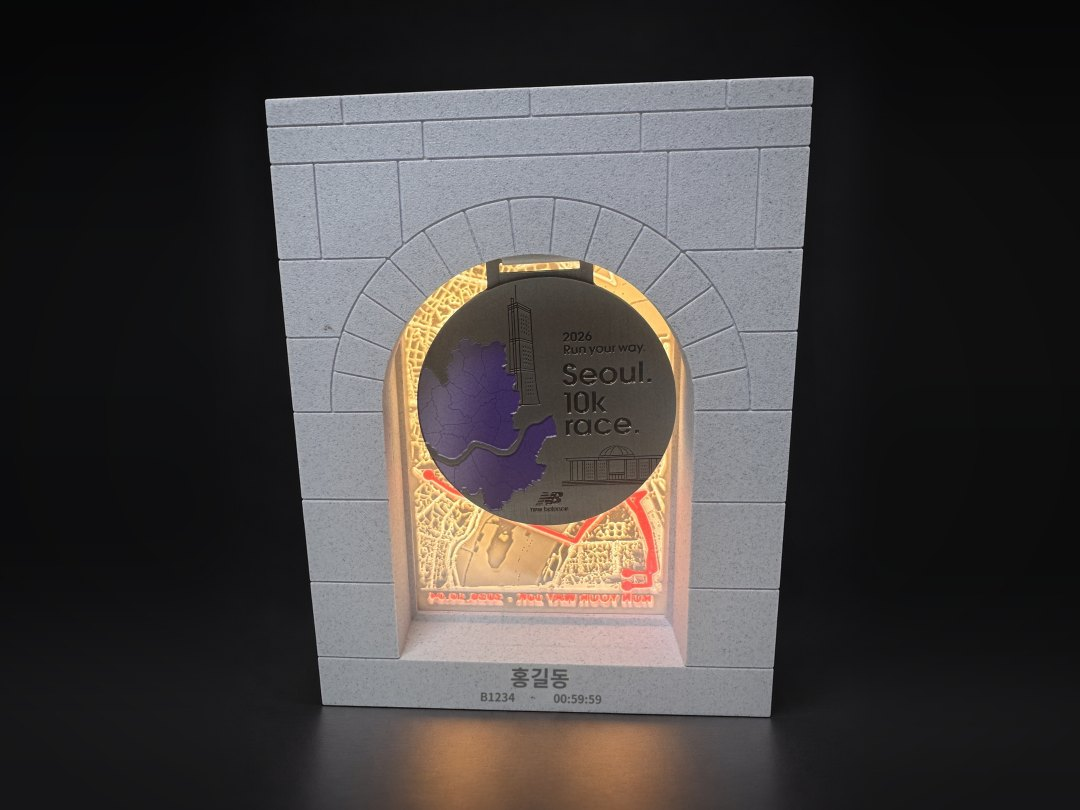
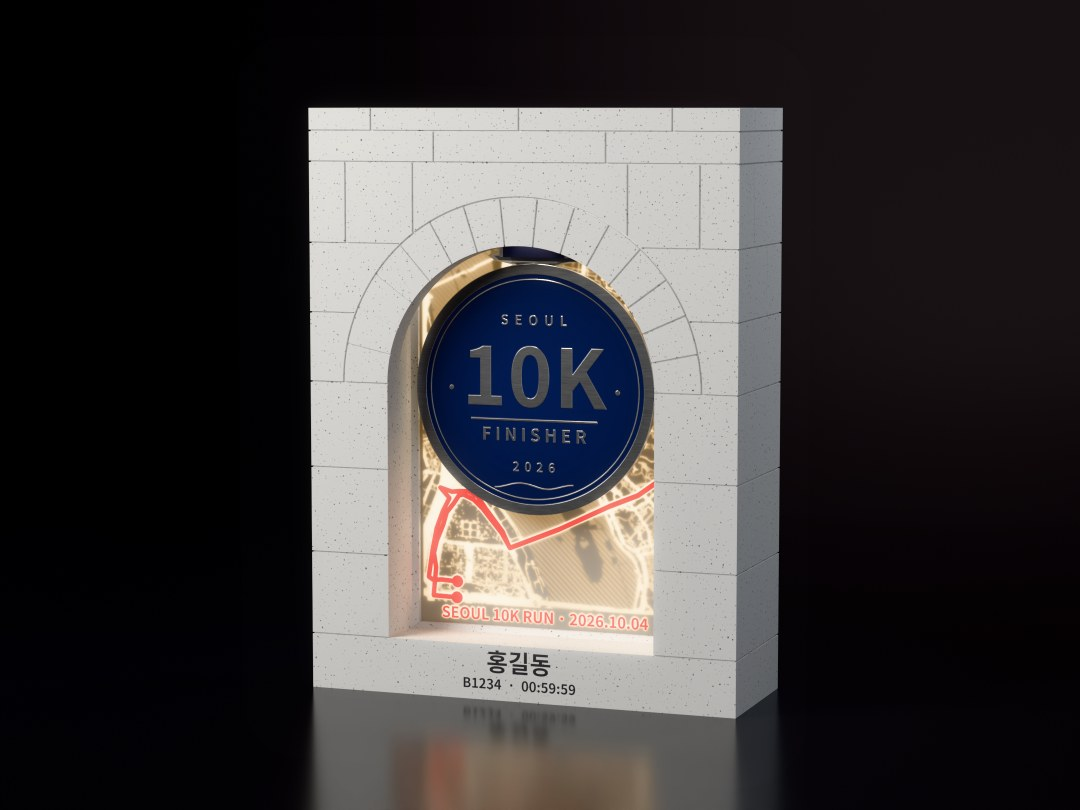
[Claude] Work 08 메달 거치 무드등: 메인 그림을 3D 모델 렌더로
- 상세 쪽 맨 위 그림(가로 · 세로)과 첫 화면 Work 08 카드 그림을 렌더로 바꿈
- 렌더는 최신 모델(몸통 v2e1b · 깊이 55)에 가상 이름을 넣어 만든 것, 메달은 가상으로 그린 것
- 그림 설명 글과 안내 글에 3D 렌더임을 적음, 아래 실물 사진은 그대로

diff --git a/gatemedal/index.html b/gatemedal/index.html
@@ -37,8 +37,8 @@
 <section class="hero detail-hero" aria-label="대표 이미지">
   <div class="slide on">
     <picture>
-      <source media="(min-width: 900px)" srcset="../img/hero_gatemedal_d.jpg?v=1">
-      <img src="../img/hero_gatemedal_m.jpg?v=1" alt="불을 켠 메달 거치 무드등. 돌을 쌓은 홍예문 안에 완주 메달이 걸려 있고 그 뒤로 코스 지도가 빛난다" width="1200" height="1600" style="object-position: center 50%">
+      <source media="(min-width: 900px)" srcset="../img/hero_gatemedal_d.jpg?v=2">
+      <img src="../img/hero_gatemedal_m.jpg?v=2" alt="불을 켠 메달 거치 무드등의 3D 렌더. 돌을 쌓은 홍예문 안에 완주 메달이 걸려 있고 그 뒤로 코스 지도가 빛난다" width="1200" height="1600" style="object-position: center 50%">
     </picture>
   </div>
 </section>
@@ -71,7 +71,7 @@
         <span class="no cond">01 — FORM</span>
         <h2>홍예문 안에 메달을 걸다</h2>
         <p>정면은 광화수문 라이트박스와 같은 홍예문입니다. 홍예석 열다섯 개와 돌 켜의 줄눈을 같은 식으로 그렸습니다. 메달은 윗면 뚜껑을 열어 넣고, 홍예 꼭대기 뒤에 숨은 걸이막대에 겁니다. 정면에서는 메달이 문 한가운데에 떠 있는 것처럼 보입니다.</p>
-        <p class="note">사진은 실제 제품을 찍은 뒤 배경만 스튜디오로 바꾼 것입니다. 기단의 이름 · 배번 · 기록은 가상 값입니다.</p>
+        <p class="note">맨 위 그림은 3D 모델 렌더이고 메달은 가상으로 그린 것입니다. 아래 사진은 실제 제품을 찍은 뒤 배경만 스튜디오로 바꾼 것입니다. 기단의 이름 · 배번 · 기록은 가상 값입니다.</p>
       </div>
       <div class="pic"><img src="../img/gatemedal_form.jpg?v=1" alt="불을 끈 메달 거치 무드등. 홍예문 안에 은색 완주 메달이 걸려 있고 기단에 이름과 기록이 새겨져 있다" width="1520" height="1000" loading="lazy"></div>
     </article>

diff --git a/index.html b/index.html
@@ -143,7 +143,7 @@
       </li>
       <li class="rv">
         <a class="tile" href="gatemedal/">
-          <div class="ph"><img src="img/gatemedal_case.jpg?v=1" alt="불을 켠 메달 거치 무드등. 홍예문 안에 완주 메달이 걸려 있다" width="1080" height="810" loading="lazy"></div>
+          <div class="ph"><img src="img/gatemedal_case.jpg?v=2" alt="불을 켠 메달 거치 무드등의 3D 렌더. 홍예문 안에 완주 메달이 걸려 있다" width="1080" height="810" loading="lazy"></div>
           <div class="meta"><span class="no cond">08</span><span class="t cond"><span>MEDAL LIGHT</span></span><span class="k">메달 거치 무드등</span></div>
         </a>
       </li>
